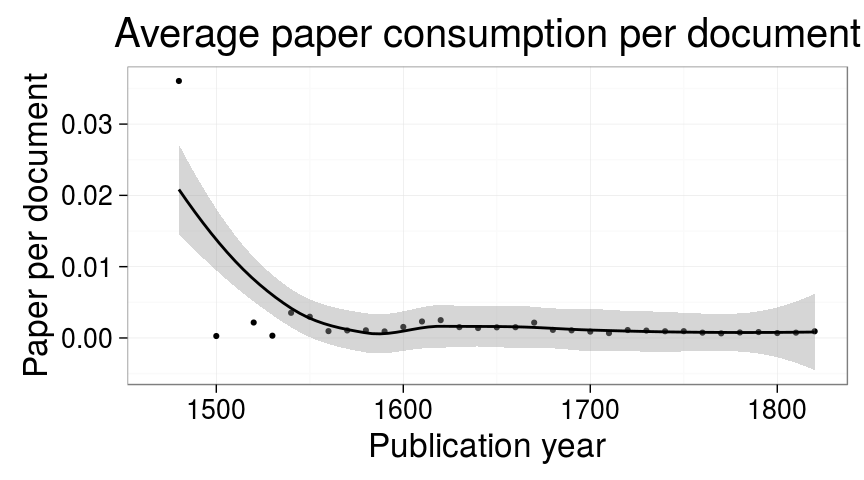
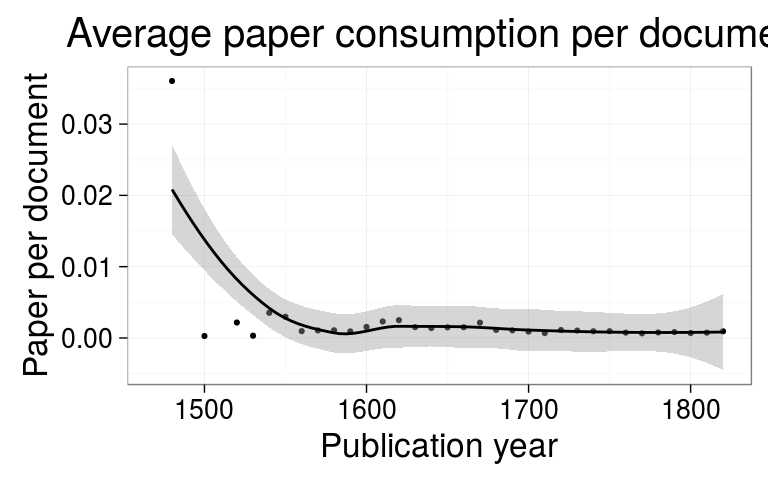
Rmd update

diff --git a/inst/examples/manuscript-krakow.md b/inst/examples/manuscript-krakow.md
@@ -81,7 +81,7 @@ Overview on how over 50 page documents spread in time. Paper consumption in book
 
 Average paper consumption per document over time:
 
-<img src="figure_201606_Krakow/LIBER-11-1.png" width="430px" />
+<img src="figure_201606_Krakow/LIBER-11-1.png" width="600px" />
 
 The development of book formats over time. Folios (1to ja 2to) are largely missing (in contrast to ESTC). Moreover, the quarto (4to) and octavo (8vo) increase rapidly in 1700s.
 
